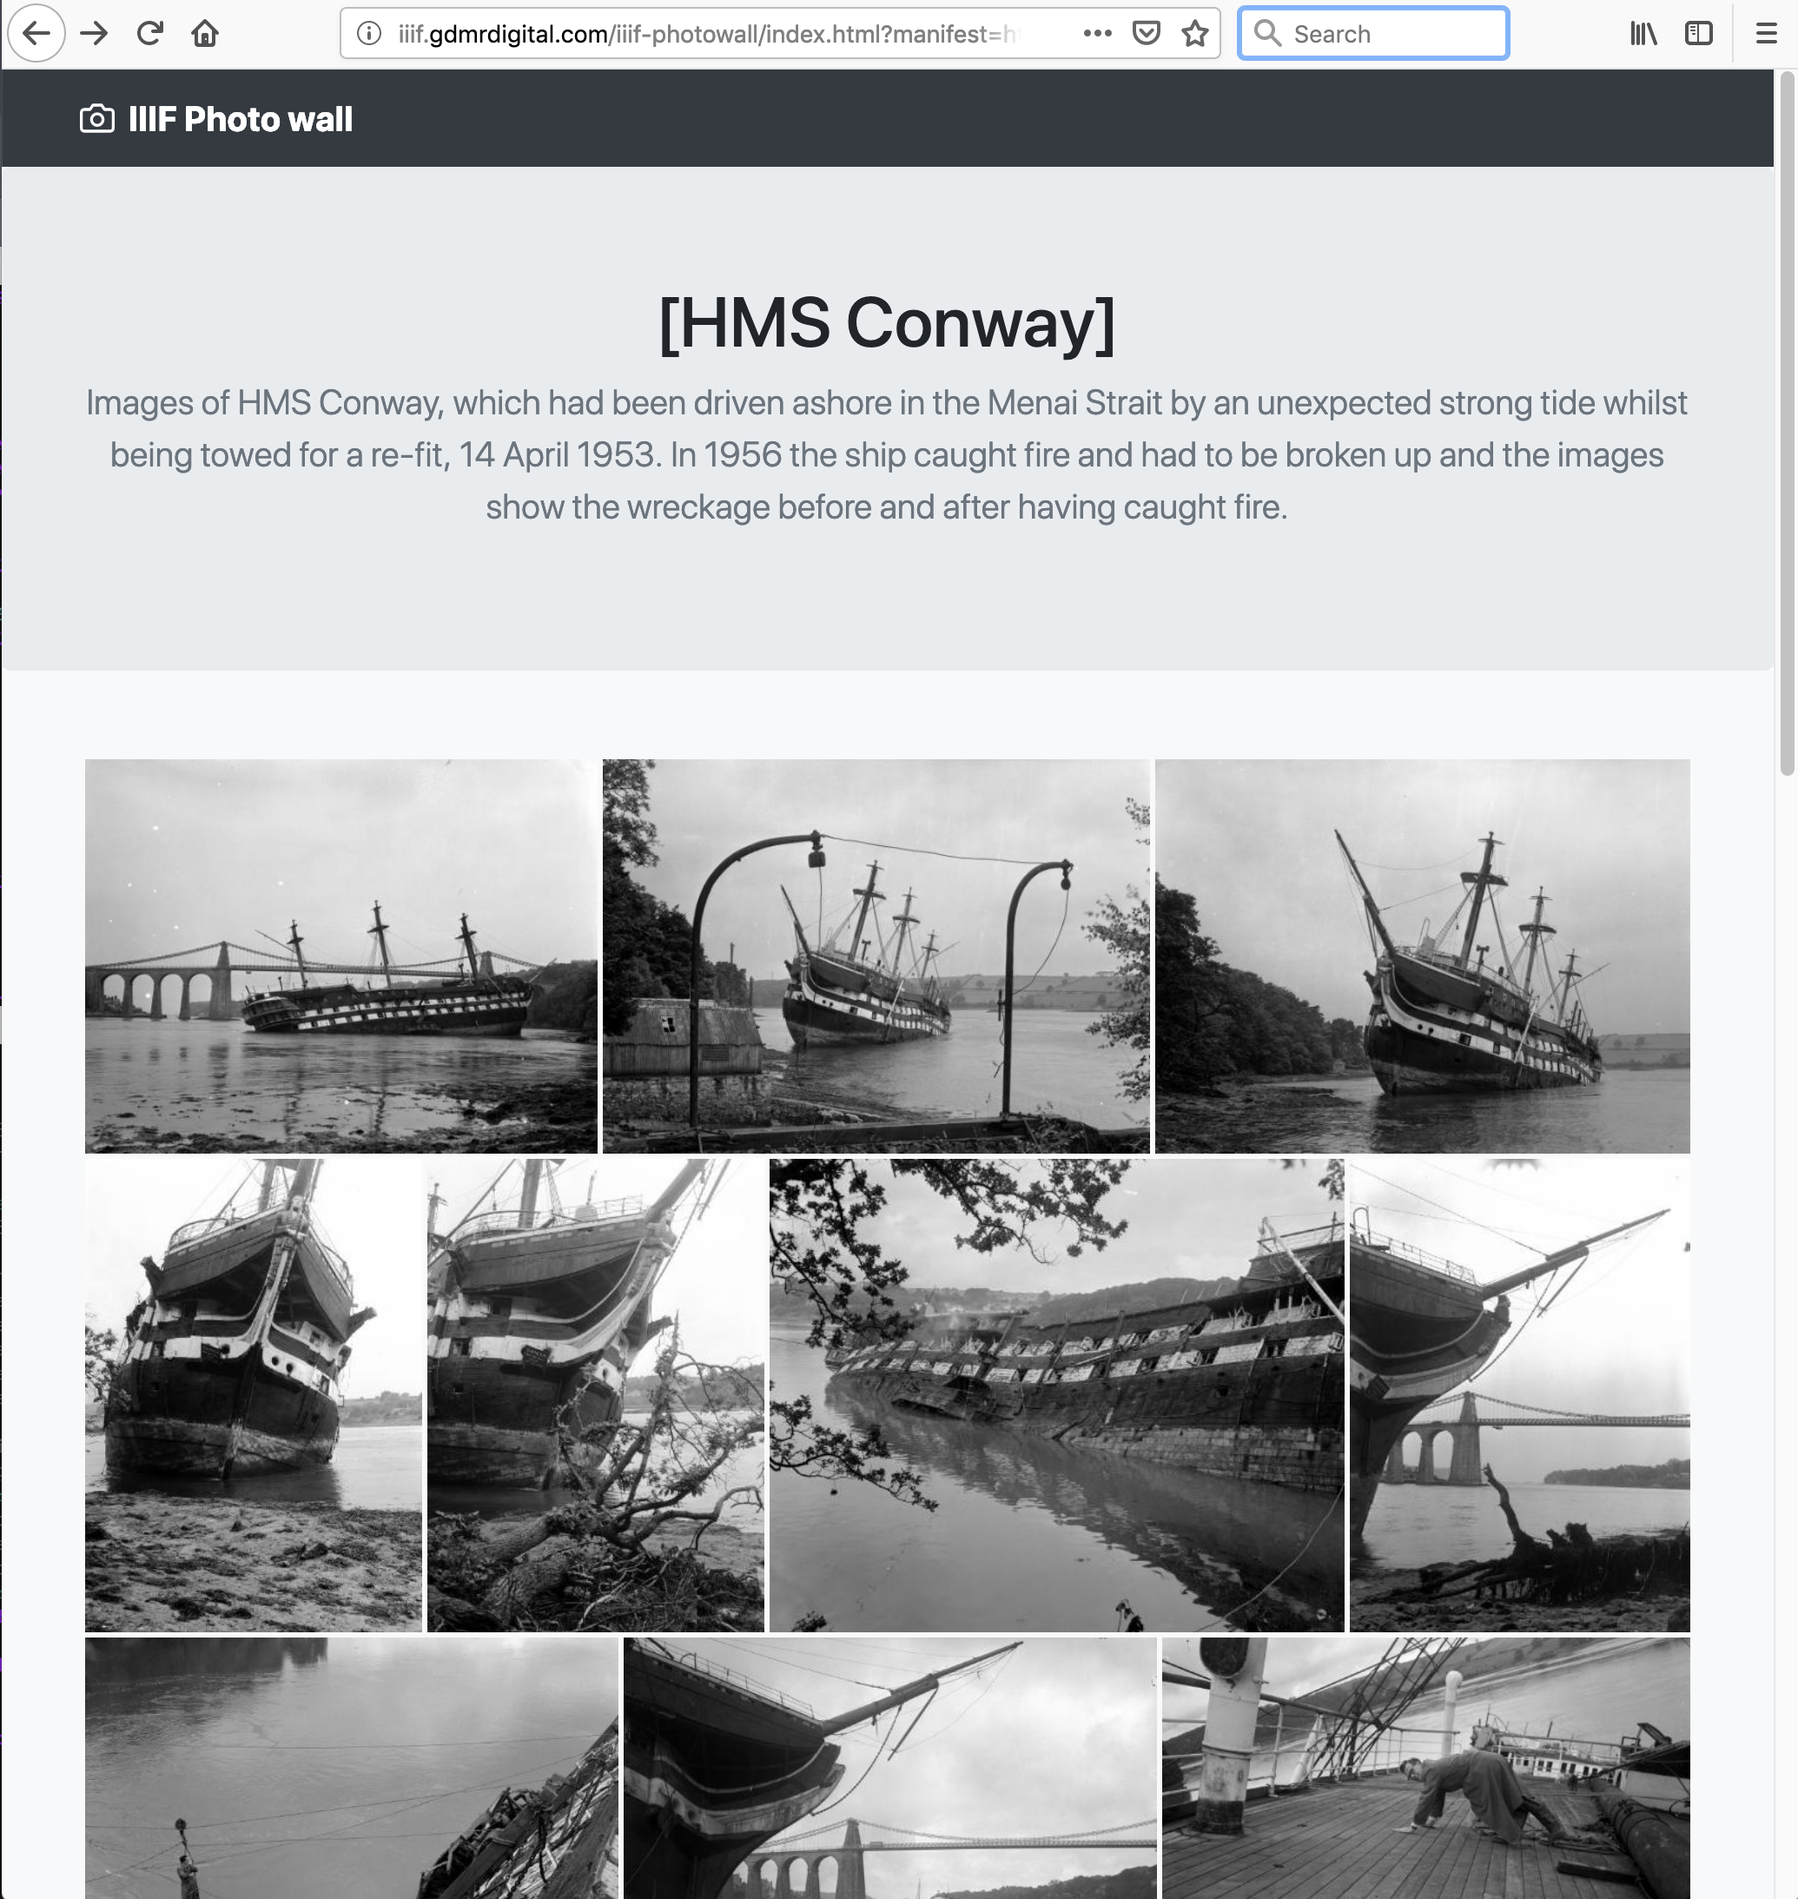
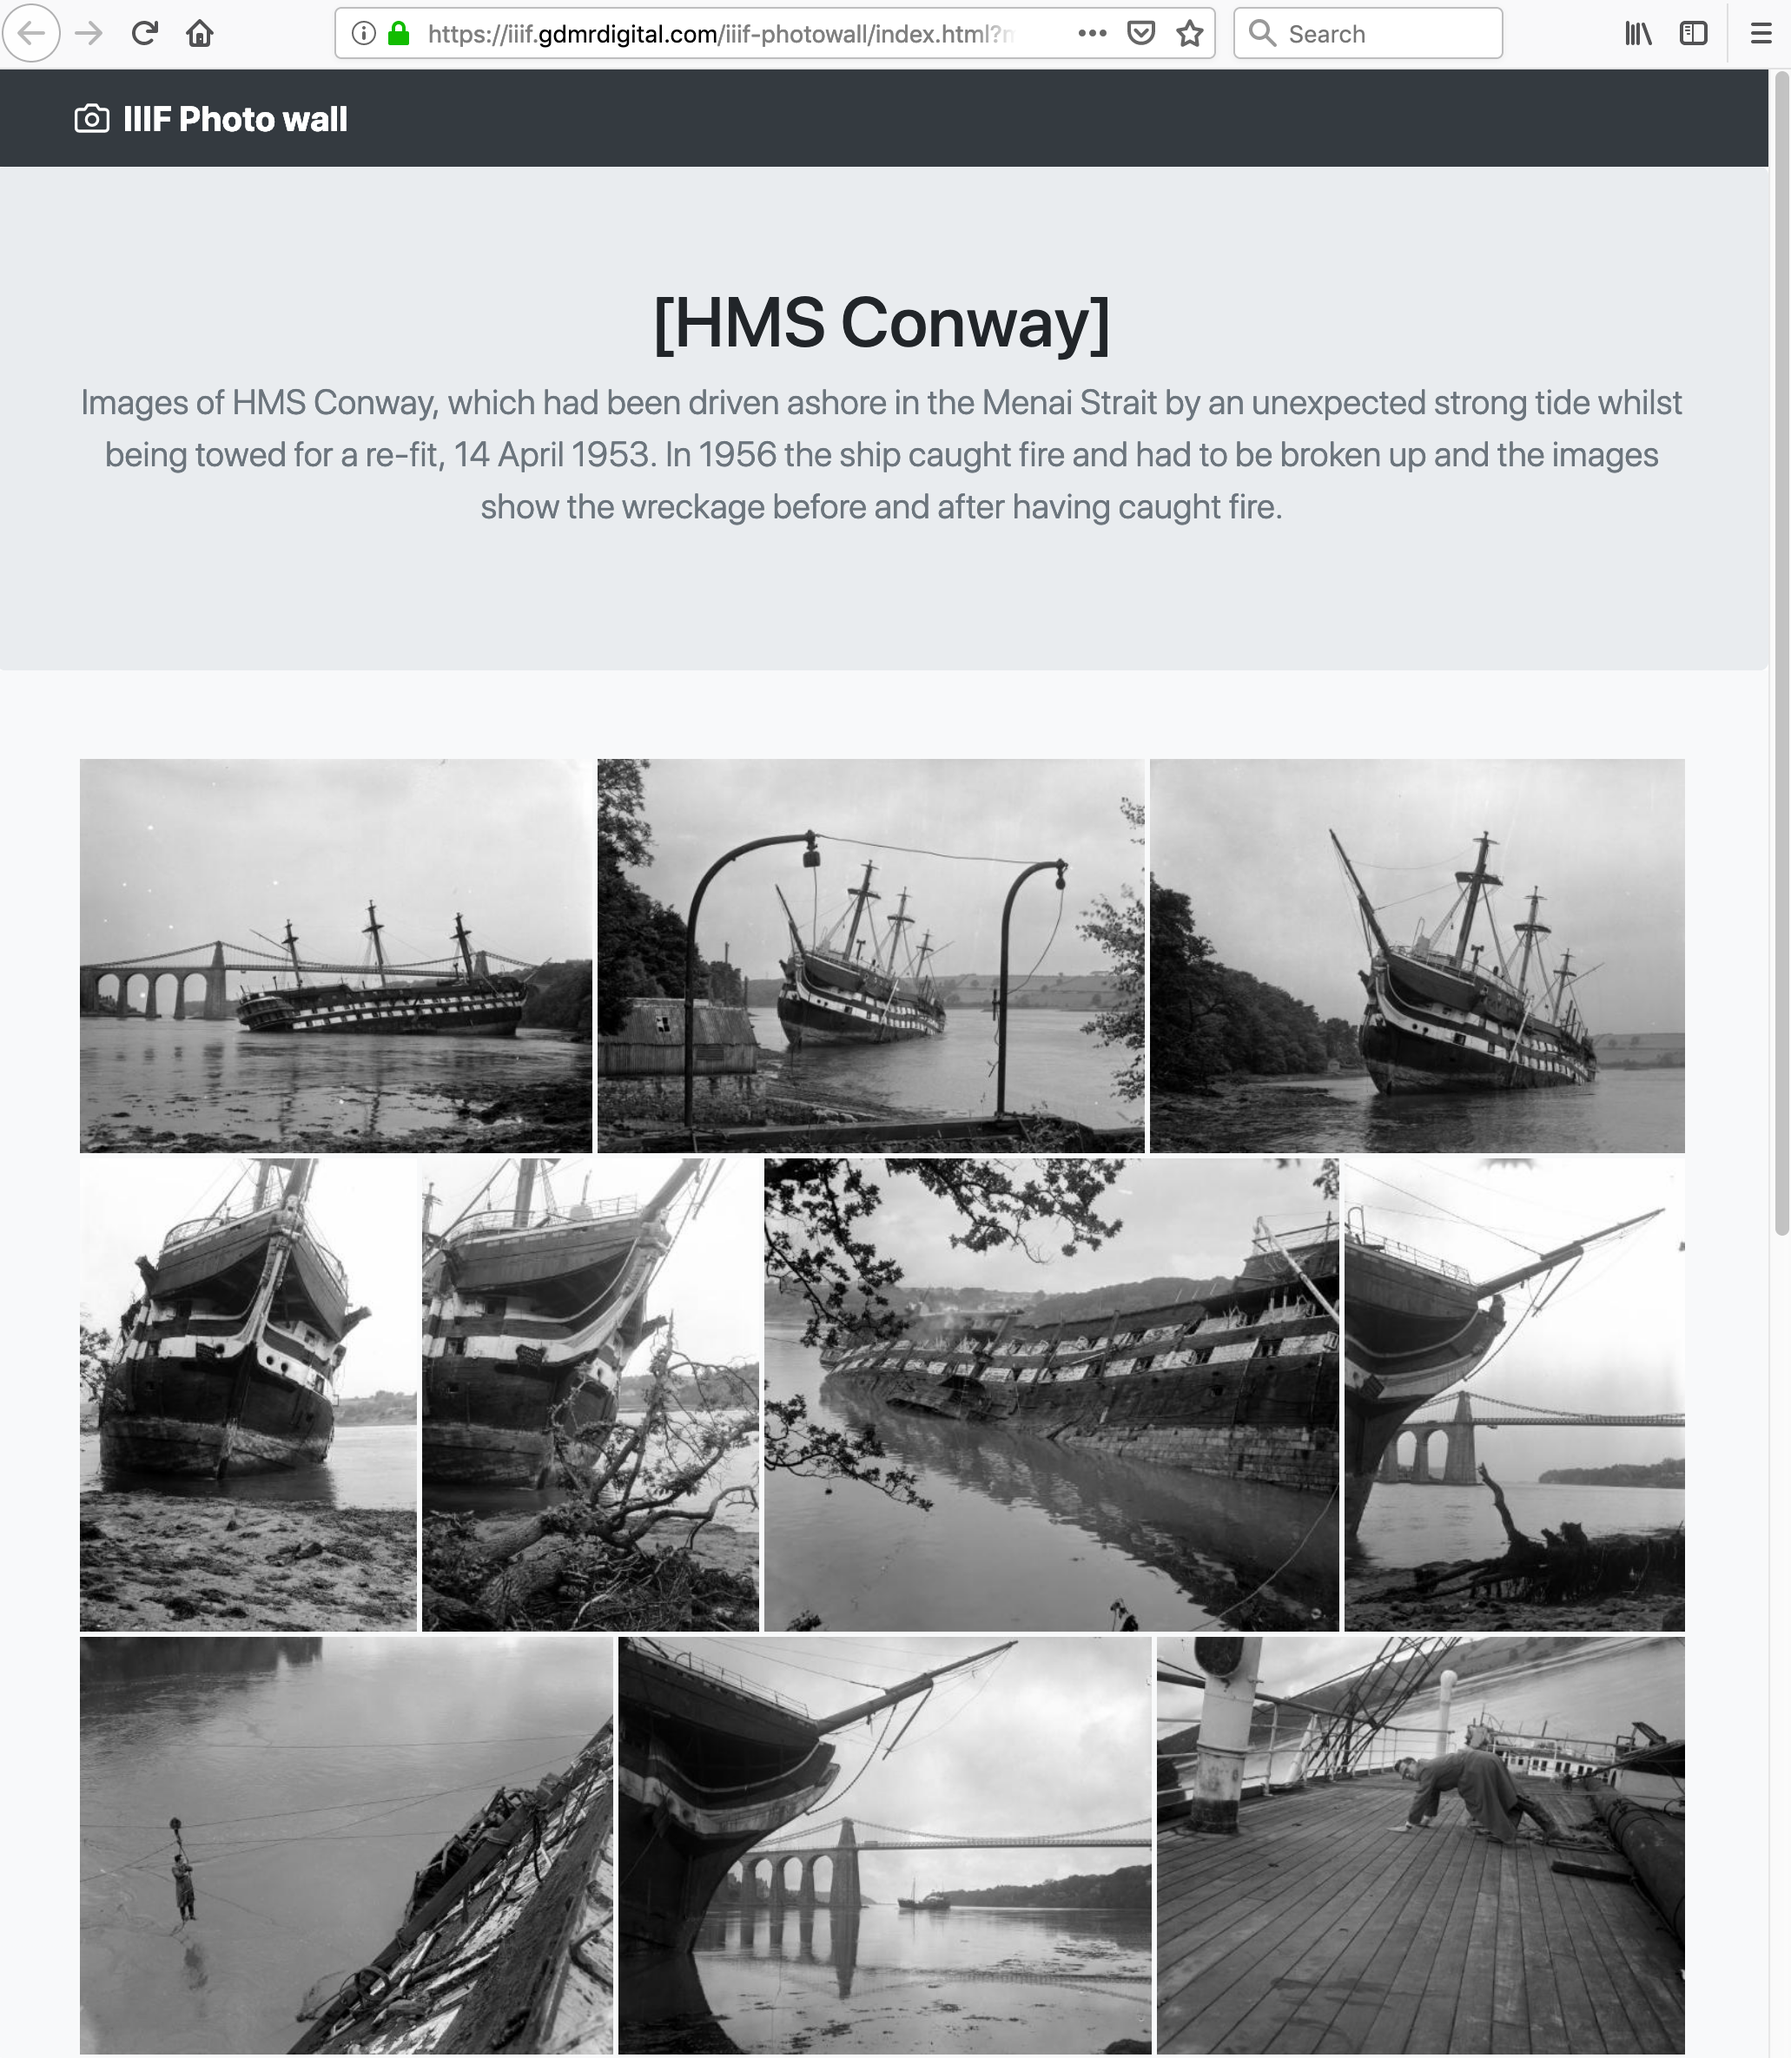
fixing screen shot and link

diff --git a/README.md b/README.md
@@ -1,5 +1,5 @@
 # iiif-photowall
-iiif-photowall is a lightweight adaptation of [Justified Gallery](http://miromannino.github.io/Justified-Gallery/) to show images in a [IIIF](https://iiif.io) Manifest in a Flickr like photo wall. 
+iiif-photowall is a lightweight adaptation of [Justified Gallery](http://miromannino.github.io/Justified-Gallery/) to show images in a [IIIF](https://iiif.io) Manifest on a Flickr like photo wall. 
 
 <a href="https://iiif.gdmrdigital.com/iiif-photowall/index.html?manifest=https://damsssl.llgc.org.uk/iiif/2.0/1466237/manifest.json">
   <img src="https://raw.githubusercontent.com/glenrobson/iiif-photowall/master/examples/HMS_Conway.png"/>
